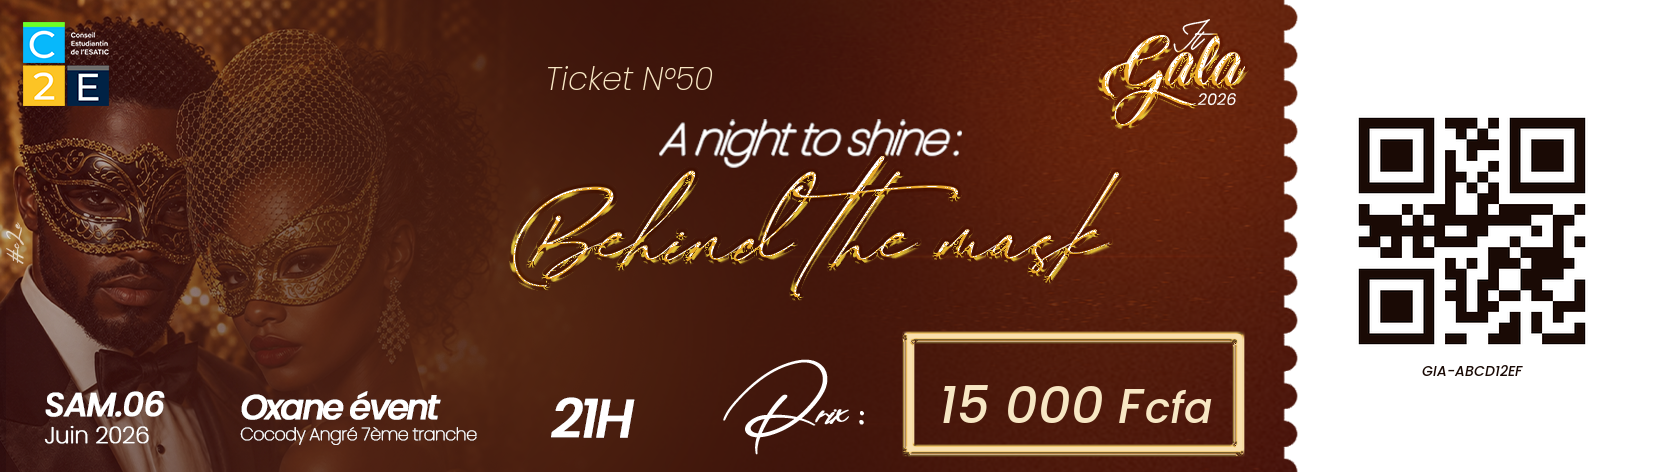
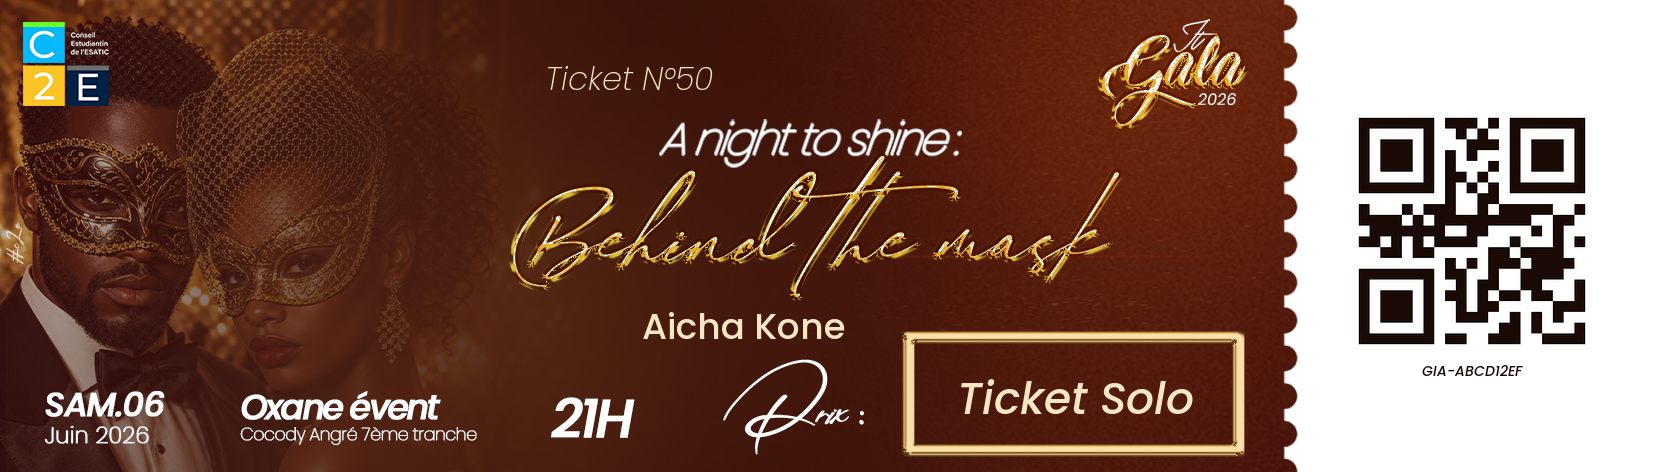
Nom monté

Changed region(s): [[0.555, 0.8008, 0.74, 0.8898], [0.37, 0.6525, 0.5242, 0.7415]]

diff --git a/frontend/src/components/TicketQR.tsx b/frontend/src/components/TicketQR.tsx
@@ -22,7 +22,7 @@ import type { Gala, Ticket } from "@/lib/types";
 
 // Positions calibrees sur la template (1654 x 472 px).
 const POS_NUMBER = { left: "33%", top: "12%" };
-const POS_NAME = { left: "45%", top: "72%" }; // centre, sous "Behind the mask"
+const POS_NAME = { left: "45%", top: "69%" }; // centre, sous "Behind the mask"
 const POS_TYPE = { left: "65%", top: "84%" }; // centre du cadre dore
 const POS_QR = { right: "5.5%", top: "49%", width: "15%" }; // centre sur l'espace blanc
 

diff --git a/backend/app/services/ticket_image.py b/backend/app/services/ticket_image.py
@@ -30,7 +30,7 @@ _TEMPLATE_H = 472
 #    Coordonnee = coin haut-gauche du texte.
 _NUMBER_POS_PCT = (0.33, 0.12)
 # 2. Nom de la personne qui a achete le ticket, centre sous "Behind the mask"
-_NAME_POS_PCT = (0.45, 0.72)
+_NAME_POS_PCT = (0.45, 0.69)
 # 3. Libelle du type (Ticket Solo / Duo / Gbonhi) : centre du cadre dore
 _TYPE_POS_PCT = (0.65, 0.84)
 # 4. QR : centre de la zone blanche
